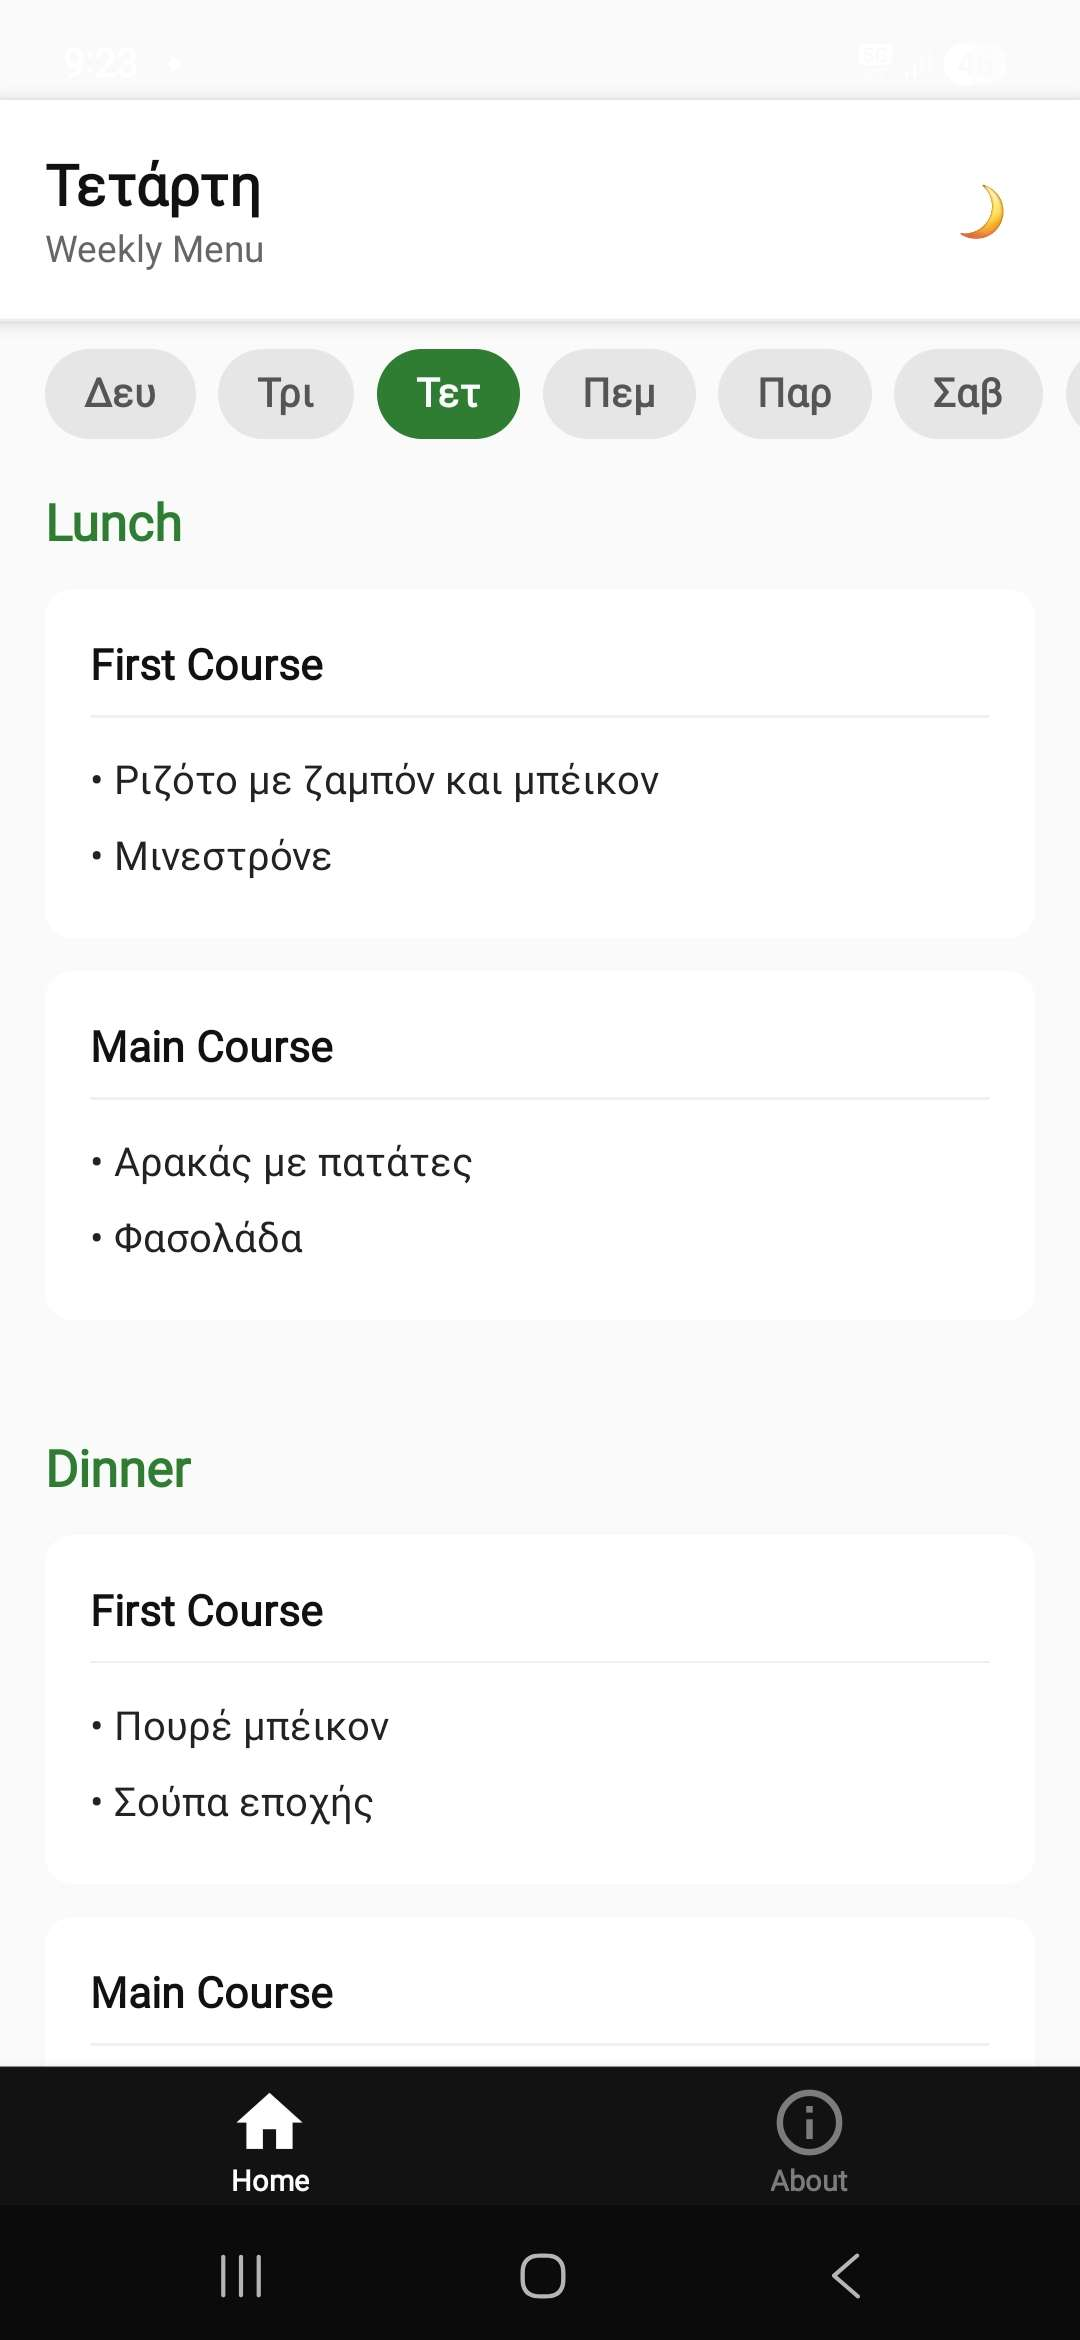
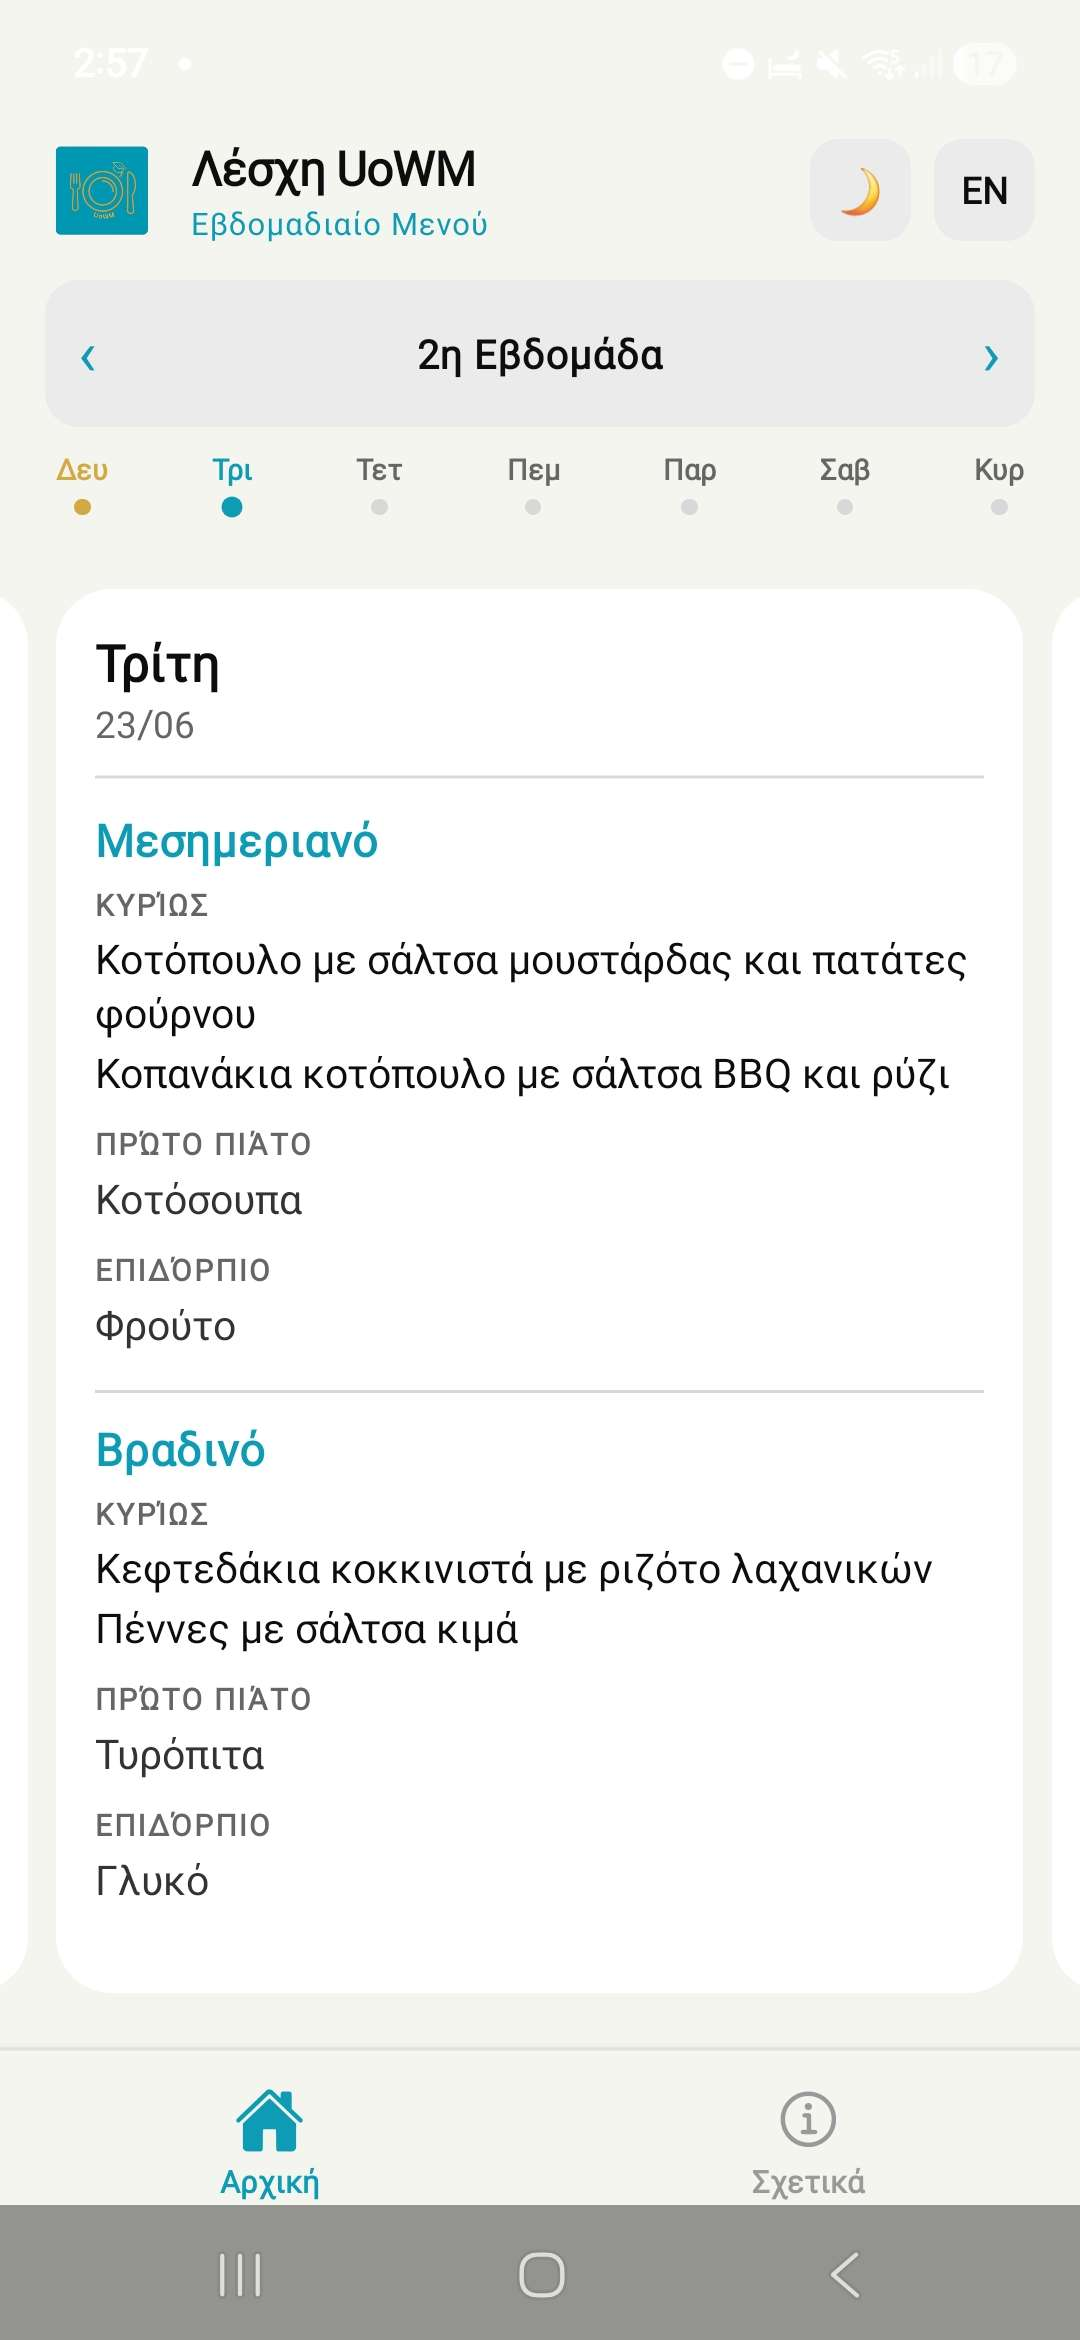
Update readme

diff --git a/README.md b/README.md
@@ -1,21 +1,16 @@
 <div align="center">
   <img src="assets/images/icon.png" width="100" style="border-radius: 20px" />
   <h1>UoWM Restaurant Menu App</h1>
-  <p>The weekly menu of the University of Western Macedonia's restaurant, right in your pocket.</p>
-
-  <a href="https://github.com/michadasis/generic-restaurant-app/releases">
-    <img src="https://img.shields.io/github/v/release/michadasis/generic-restaurant-app?style=flat-square&color=0e9bb5" alt="Latest Release" />
-  </a>
-  <img src="https://img.shields.io/badge/platform-Android-3ddc84?style=flat-square" alt="Android" />
-  <img src="https://img.shields.io/badge/Expo-54-000020?style=flat-square&logo=expo" alt="Expo" />
-  <img src="https://img.shields.io/badge/TypeScript-5.9-3178c6?style=flat-square&logo=typescript" alt="TypeScript" />
+  <p>The weekly menu for the University of Western Macedonia's student restaurant, in your pocket instead of taped to a wall.</p>
 </div>
 
----
+## Why this exists
+
+The restaurant menu used to live on a printed sheet near the entrance, or buried somewhere on the university site. This app just puts it on your phone. Open it and you immediately see what's being served today, for both lunch and dinner.
 
 ## What it does
 
-Displays the lunch and dinner menu for each day of the week. The app automatically determines which week of the 2-week cycle you're in and opens on today's menu.
+The menu runs on a two week cycle, and the app figures out on its own which week you're currently in, so you never have to think about it. It opens straight to today's menu. From there you can swipe left or right to move through the rest of the week, and if you keep swiping past the last day it just rolls into the next week for you.
 
 ## Screenshots
 
@@ -26,51 +21,59 @@ Displays the lunch and dinner menu for each day of the week. The app automatical
 
 ## Installation
 
-Download the latest `.apk` from the [releases page](https://github.com/michadasis/generic-restaurant-app/releases) and install it on your Android device.
+Grab the latest APK from the releases page and install it on your Android phone.
 
-> Android only. iOS is not supported.
+https://github.com/michadasis/generic-restaurant-app/releases
+
+It's Android only for now. There's no iOS build.
 
 ## Features
 
-- **Automatic week detection** - calculates the current cycle week based on the date
-- **Swipeable cards** - swipe left/right to change day; reaching the end of the week automatically moves to the next
-- **Dark / Light mode** - toggle with one tap, preference saved locally
-- **Greek / English** - switch language with the press of a button
-- **Auto updater** - shows a popup when a new version is available on GitHub
-- **UoWM theme palette** - teal & amber color scheme inspired by the UoWM logo
+* Figures out the current week in the cycle on its own, based on today's date
+* Swipe through the days, with the week rolling over automatically at the edges
+* Dark mode and light mode, switchable with one tap, remembered for next time
+* Greek and English, switchable the same way
+* Checks GitHub on launch and lets you know if a newer version is out
+* Colors pulled from the actual UoWM logo, teal and amber
 
-## Project Structure
+## How the code is laid out
 
 ```
 app/
   (tabs)/
-    index.tsx        Main menu screen
-    About.tsx        About screen
-    _layout.tsx      Tab navigation
-  _layout.tsx        Root layout
+    index.tsx       the main menu screen, this is where most of the logic lives
+    About.tsx        the about screen
+    _layout.tsx      tab navigation
+  _layout.tsx        root layout
 
 components/
-  UpdateModal.tsx    Update notification popup
+  UpdateModal.tsx    the popup that shows up when a new version is available
 
 constants/
-  i18n.ts            All UI strings (GR + EN)
-  theme.ts           Colors & theme objects
+  i18n.ts            every bit of text in the app, Greek and English
+  theme.ts           the color palette and the dark and light theme objects
 
 data/
-  menu.ts            TypeScript interfaces + buildMenu()
-  restaurantMenu.js  Raw menu data
+  menu.ts            types plus the function that builds the menu for a given language
+  restaurantMenu.js   the raw menu content itself
 
 hooks/
-  useUpdateChecker.ts  GitHub release checker
+  useUpdateChecker.ts  checks the GitHub releases API for a newer version
 
 utils/
-  getToday.ts        Current day key and label
-  getWeek.ts         Current week in the cycle
+  getToday.ts        works out today's day and its label
+  getWeek.ts          works out which week of the cycle we're in
 ```
 
-## Development
+## Running it yourself
 
-> Requires [EAS CLI](https://docs.expo.dev/eas/): `npm i -g eas-cli`
+You'll need the EAS CLI installed globally first.
+
+```bash
+npm i -g eas-cli
+```
+
+Then clone the repo and start it up.
 
 ```bash
 git clone https://github.com/michadasis/generic-restaurant-app.git
@@ -79,24 +82,24 @@ npm i
 npm run start
 ```
 
-**Build for testing (.apk):**
+To build an APK for testing:
 
 ```bash
 eas build --platform android --profile preview
 ```
 
-**Build for production:**
+To build the production version:
 
 ```bash
 eas build --platform android --profile production
 ```
 
+## Updating the menu
+
+The actual menu text lives in `data/restaurantMenu.js`. Each week has a Greek and an English version for every meal, so updating it for a new cycle just means editing that one file.
+
 ## Credits
 
-Developed by [**Ioannis Michadasis**](https://github.com/michadasis).
+Built by [Ioannis Michadasis](github.com/michadasis).
 
-Logo designed by **Katerina Maki**.
-
-## License
-
-MIT - see [LICENSE](./LICENSE) for details.
+Logo by Katerina Maki.